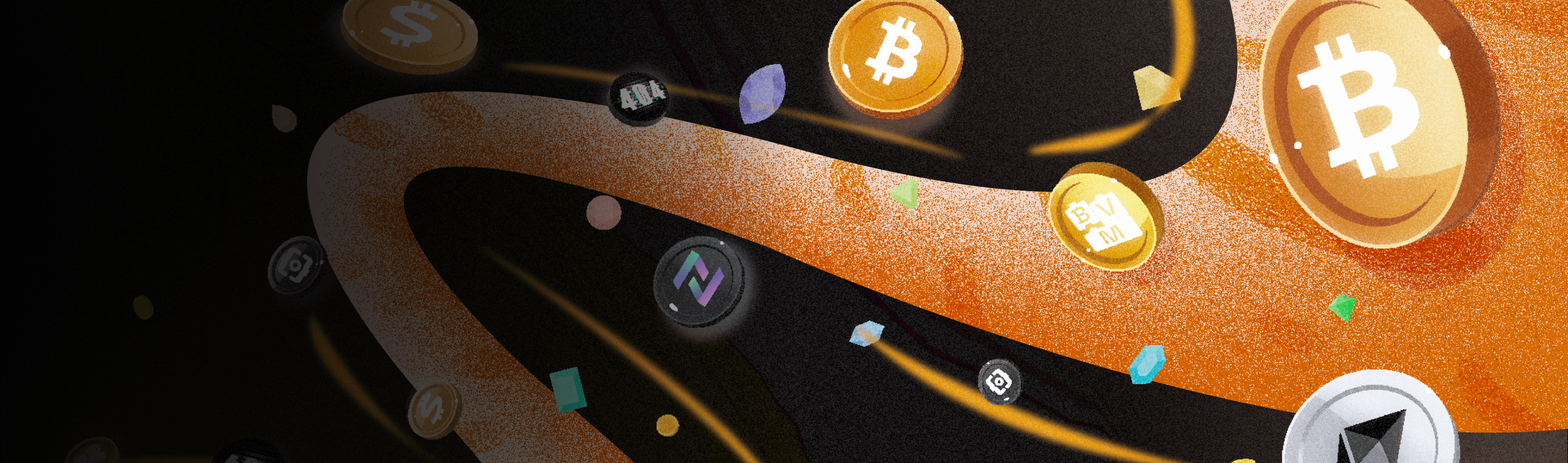
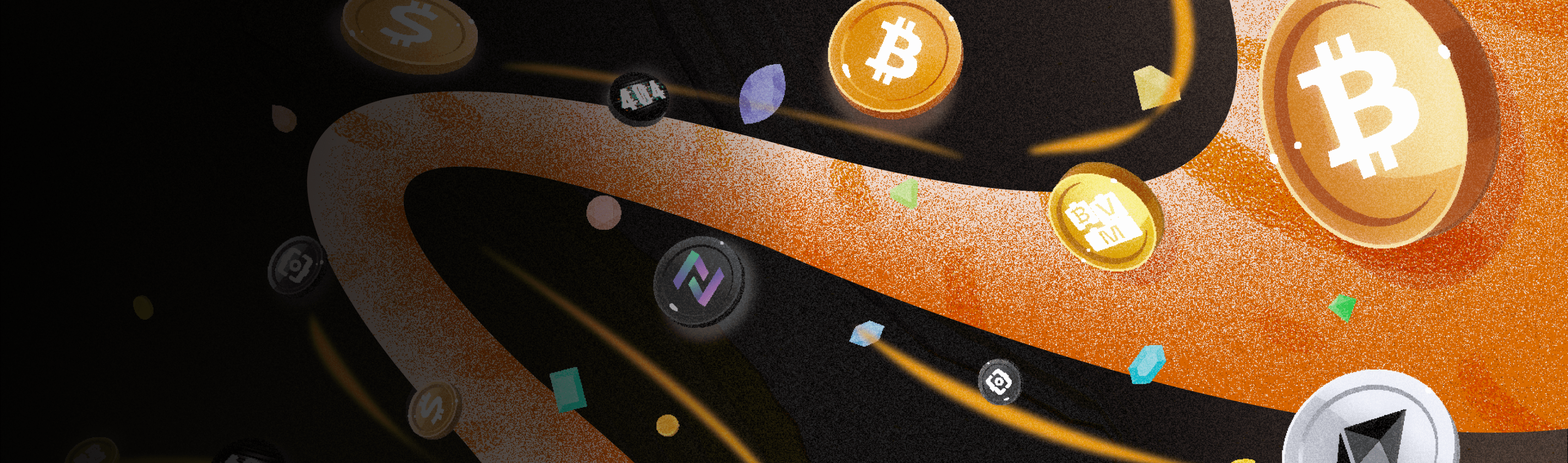
update content visual

diff --git a/src/modules/socialfi/index.tsx b/src/modules/socialfi/index.tsx
@@ -44,25 +44,25 @@ const SocialFiModule = () => {
   return (
     <div className={s.socialfi}>
       <RetroHero label={'Optimized for content creators.'} subTitle={'Bitcoin L2 for SocialFi'} btn1={{
-        title: 'Create your own SocialFi L2',
+        title: 'Create your own Defi L2',
         link: '/blockchains/customize',
       }}
                  btn2={{
-                   title: 'Explore Bitcoin Arcade now',
+                   title: 'Explore Alpha now! ',
                    label: 'Need an example?',
                    link: 'https://play.bitcoinarcade.xyz/',
                    target: '_blank',
                  }}
-                 src={'/ai/ai-hero-2.png'}
+                 src={'/socialfi/socialFiHero.png'}
       >
         Connect, hang out, have fun, and earn.
       </RetroHero>
       <ListInfo list_info={AIFI_LIST_INFO} heading={'Learn what BVM products can do for you '}/>
-      <RetroCaseStudy subTitle={'Case Study'} btn={{
-        title: 'Explore Bitcoin Arcade now!',
+      <RetroCaseStudy subTitle={'Case Study'} backgroundColor={'#000000'} bgCaseStudy={'#191919'} btn={{
+        title: 'Explore Alpha now!',
         link: 'https://play.bitcoinarcade.xyz',
         target: '_blank'
-      }} src={'/ai/case-study.png'} brand={'/ai/brand.png'} heading={'Making DeFi on Bitcoin possible and accessible to everyone'}>The first ever Fully On-Chain blockchain on Bitcoin</RetroCaseStudy>
+      }} src={'/socialfi/case-study.png'} brand={'/ai/brand.png'} heading={'The first social app on Bitcoin'}>$2.7M paid to creators as of today.</RetroCaseStudy>
     </div>
   );
 };

diff --git a/src/modules/defi/index.tsx b/src/modules/defi/index.tsx
@@ -49,8 +49,8 @@ const DeFiModule = () => {
 
   return (
     <div className={s.defi}>
-      <RetroHero label={'Unlocking Bitcoin\'s $250B treasury chest'} subTitle={'Bitcoin L2 for SocialFi'} btn1={{
-        title: 'Bitcoin L2 for DeFi',
+      <RetroHero label={'Unlocking Bitcoin\'s $250B treasury chest'} subTitle={'Bitcoin L2 for DeFi'} btn1={{
+        title: 'Create your own DeFi L2',
         link: '/blockchains/customize',
       }}
                  btn2={{
@@ -65,12 +65,11 @@ const DeFiModule = () => {
       </RetroHero>
       <ListInfo list_info={DEFI_LIST_INFO} heading={'Learn what BVM products can do for you '} />
       <RetroCaseStudy subTitle={'Case Study'} btn={{
-        title: 'Explore Bitcoin Arcade now!',
+        title: 'Explore NakaChain now',
         link: 'https://play.bitcoinarcade.xyz',
         target: '_blank'
       }} src={'/defi/case-study.png'} brand={'/defi/brand.png'}
-                      heading={'Making DeFi on Bitcoin possible and accessible to everyone'}>The first ever Fully
-        On-Chain blockchain on Bitcoin</RetroCaseStudy>
+                      heading={'Making DeFi on Bitcoin possible and accessible to everyone'}></RetroCaseStudy>
     </div>
   )
 };

diff --git a/src/components/Retro/RetroCaseStudy/index.tsx b/src/components/Retro/RetroCaseStudy/index.tsx
@@ -9,6 +9,8 @@ interface RetroCaseStudyProps extends PropsWithChildren {
   src: string,
   heading: string,
   brand: string,
+  backgroundColor?: string;
+  bgCaseStudy?: string;
   btn: {
     title: string,
     link: string,
@@ -22,13 +24,15 @@ function CaseStudy({
                      src,
                      children,
                      btn,
-                     brand
+                     brand,
+                     backgroundColor = '#180031',
+                     bgCaseStudy = '#2f1946',
                    }: RetroCaseStudyProps): React.JSX.Element {
-  return <div className={s.wrapper}>
+  return <div className={s.wrapper} style={{ backgroundColor }}>
     <div className='container'>
       <div className={s.contentWrapper}>
         <div className={s.left}>
-          <div className={s.label}>
+          <div className={s.label} style={{ backgroundColor: bgCaseStudy }}>
             <p>{subTitle}</p>
             <div className={s.imageLabel}>
               <ImagePlaceholder src={brand} alt={'brand'} height={51} width={260} className={s.image} />

diff --git a/src/components/Retro/RetroHero/index.tsx b/src/components/Retro/RetroHero/index.tsx
@@ -27,7 +27,7 @@ function RetroHero({ label, subTitle, children, btn1, btn2, src, isVideo }: IRet
     <div className={s.wrapper}>
       {
         isVideo ? <video src={src} className={s.bg} autoPlay loop playsInline muted></video> :
-          <Image className={s.bg} src={src} width={1920} height={1080} alt={'bg-hero'} />
+          <Image className={s.bg} src={src} width={1920} height={567} alt={'bg-hero'} />
       }
       <div className={`container ${s.container}`}>
         <div className={s.wrapperContent}>

diff --git a/src/modules/gamefi/index.tsx b/src/modules/gamefi/index.tsx
@@ -37,7 +37,7 @@ const GameFiModule = () => {
                    link: 'https://play.bitcoinarcade.xyz/',
                    target: '_blank',
                  }}
-                 src={'/retro/hero.png'}
+                 src={'/gamefi/gamefiHero.png'}
       >
         Shape the Future of Gaming on Bitcoin
       </RetroHero>

diff --git a/src/components/Retro/RetroCaseStudy/styles.module.scss b/src/components/Retro/RetroCaseStudy/styles.module.scss
@@ -1,5 +1,5 @@
 .wrapper {
-  background-color: #180031;
+  //background-color: #180031;
 }
 
 
@@ -34,7 +34,7 @@
 .label {
   display: flex;
   align-items: center;
-  background-color: #2f1946;
+  //background-color: #2f1946;
   border-radius: 4px;
   padding: 8px 12px;
   gap: 10px;
